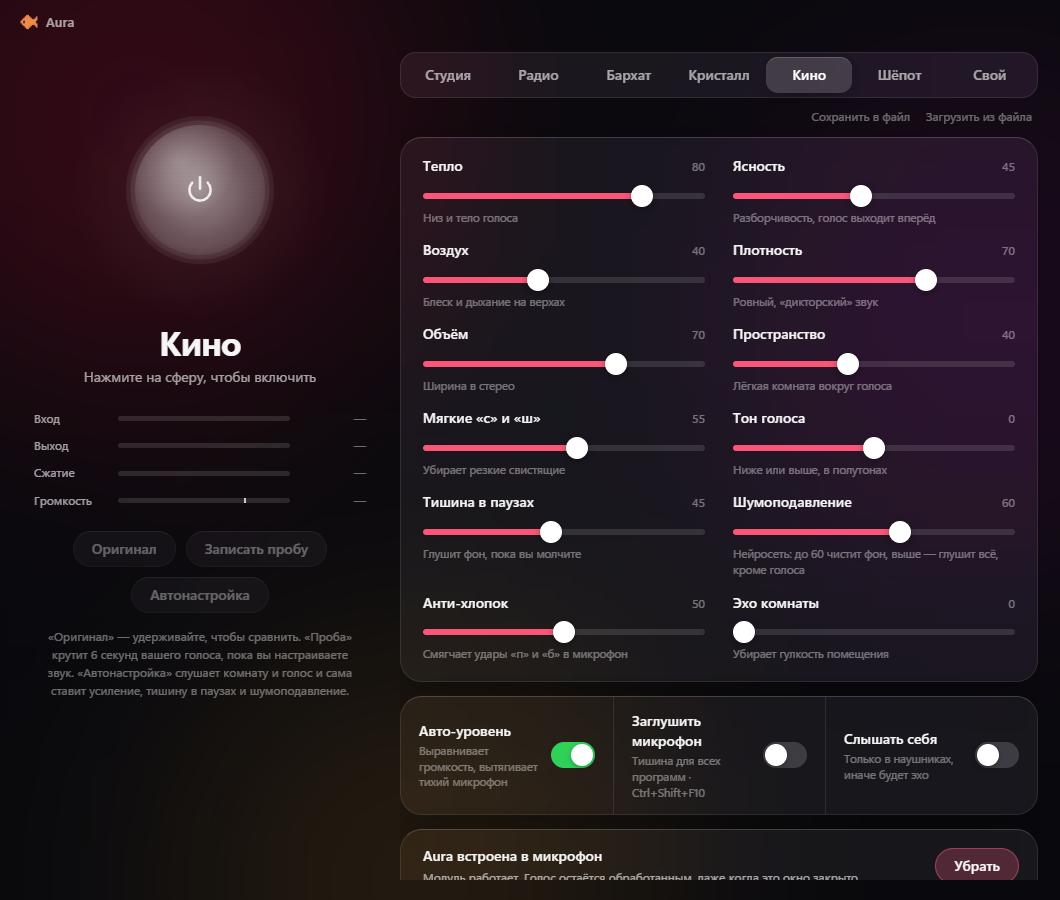
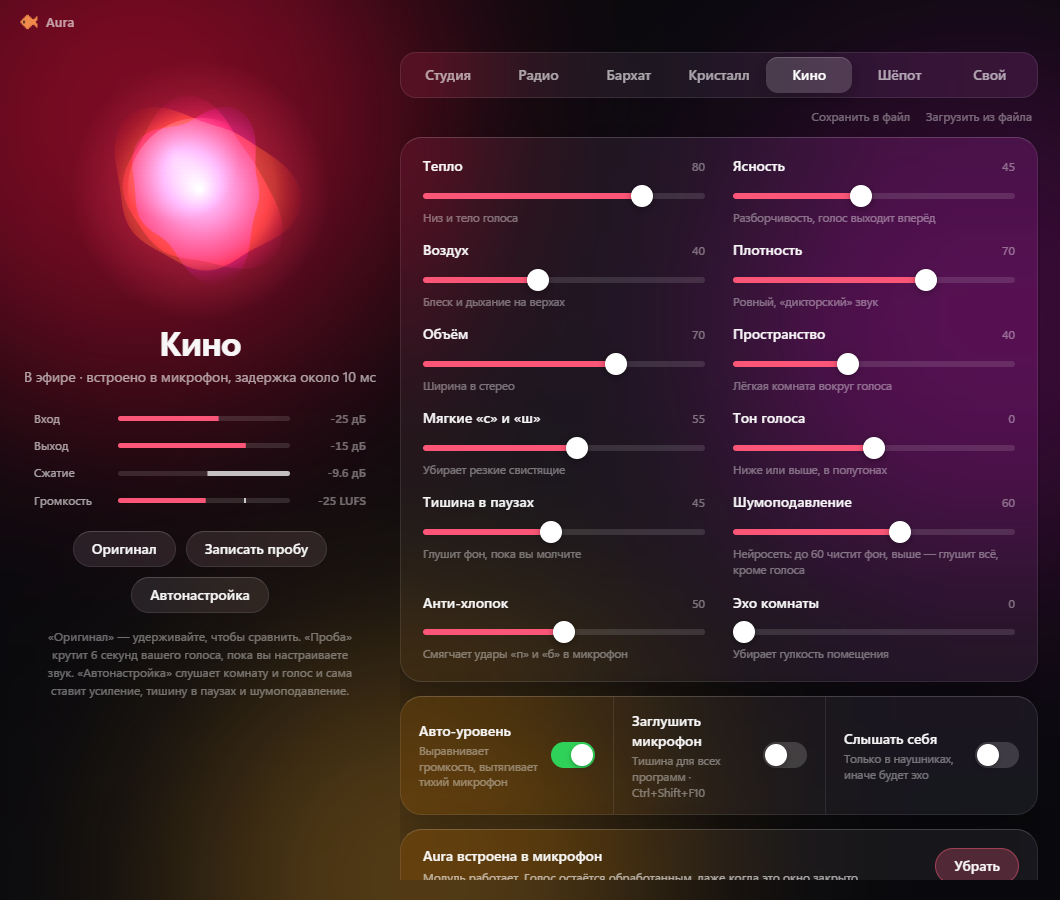
Docs: feature list, screenshot; remove the DFN experiment scaffold

diff --git a/README.md b/README.md
@@ -4,6 +4,14 @@
 
 ![Aura](docs/screenshot.png)
 
+## Что умеет
+
+- **Характер голоса** — шесть пресетов и свой: тепло, ясность, воздух, плотность, объём, пространство, тон голоса.
+- **Шумоподавление на нейросетях** — быстрый RNNoise (10 мс) или качественный DeepFilterNet 3 (40 мс), с регулятором силы.
+- **Комната и микрофон** — тишина в паузах, анти-хлопок, подавление эха комнаты, авто-уровень, автонастройка.
+- **Контроль** — сравнение с оригиналом, проба голоса по кругу, индикаторы уровня, сжатия и громкости в LUFS.
+- **Удобство** — трей, горячие клавиши (Ctrl+Shift+F9 — обработка, Ctrl+Shift+F10 — заглушить микрофон), пресеты в файлах.
+
 ## Системный режим
 
 Кнопка «Встроить» ставит модуль прямо в микрофон Windows — так же, как это делает Clownfish. После этого обработанный голос слышат все программы, виртуальный кабель не нужен, а в Discord и играх остаётся ваш обычный микрофон.
